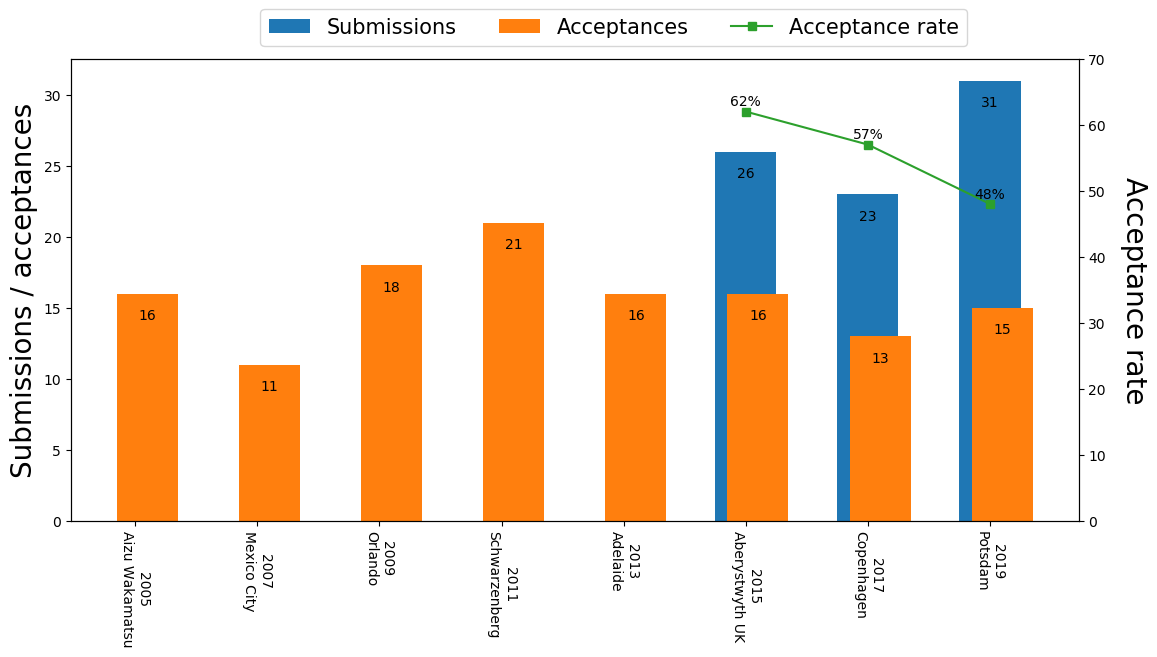
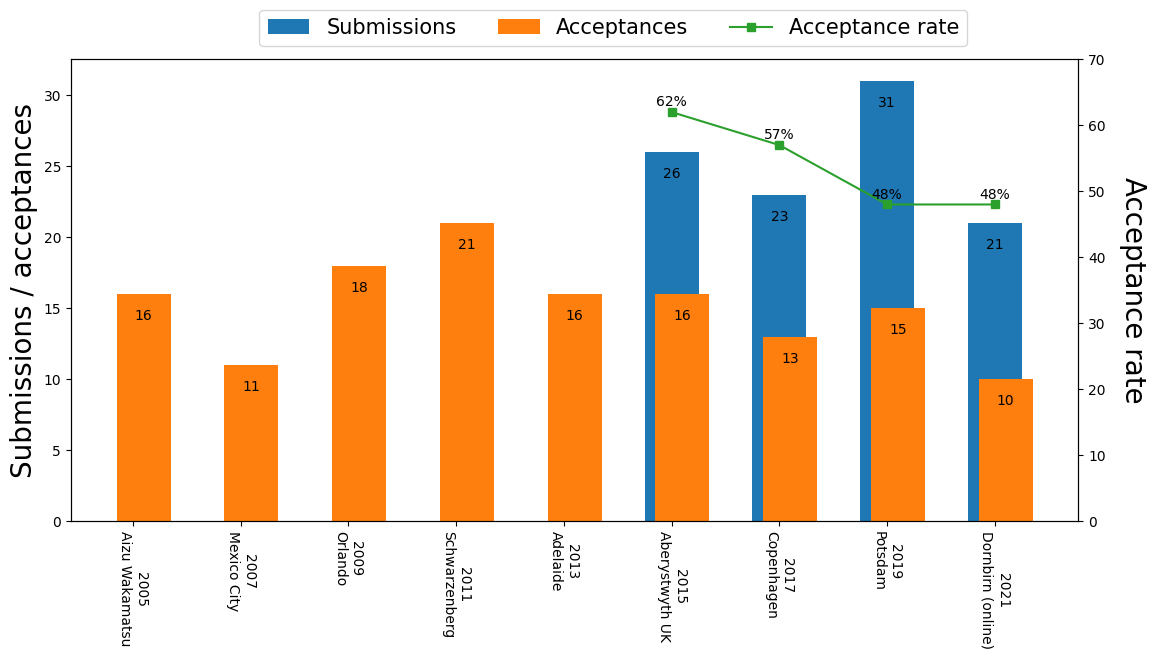
update stats of foga2021

diff --git a/index.md b/index.md
@@ -196,6 +196,7 @@ FOGA has been held in odd years since 2005. Statistics of most FOGA conferences 
 | 2015 | 26         | 16         | 62%             |  Aberystwyth UK | 
 | 2017 | 23         | 13         | 57%             | Copenhagen      | 
 | 2019 | 31         | 15         | 48%             |  Potsdam        | 
+| 2021 | 21         | 10         | 48%             |  Dornbirn (online)        | 
 
 ![FOGA](fig/stats_foga.png) 
 
